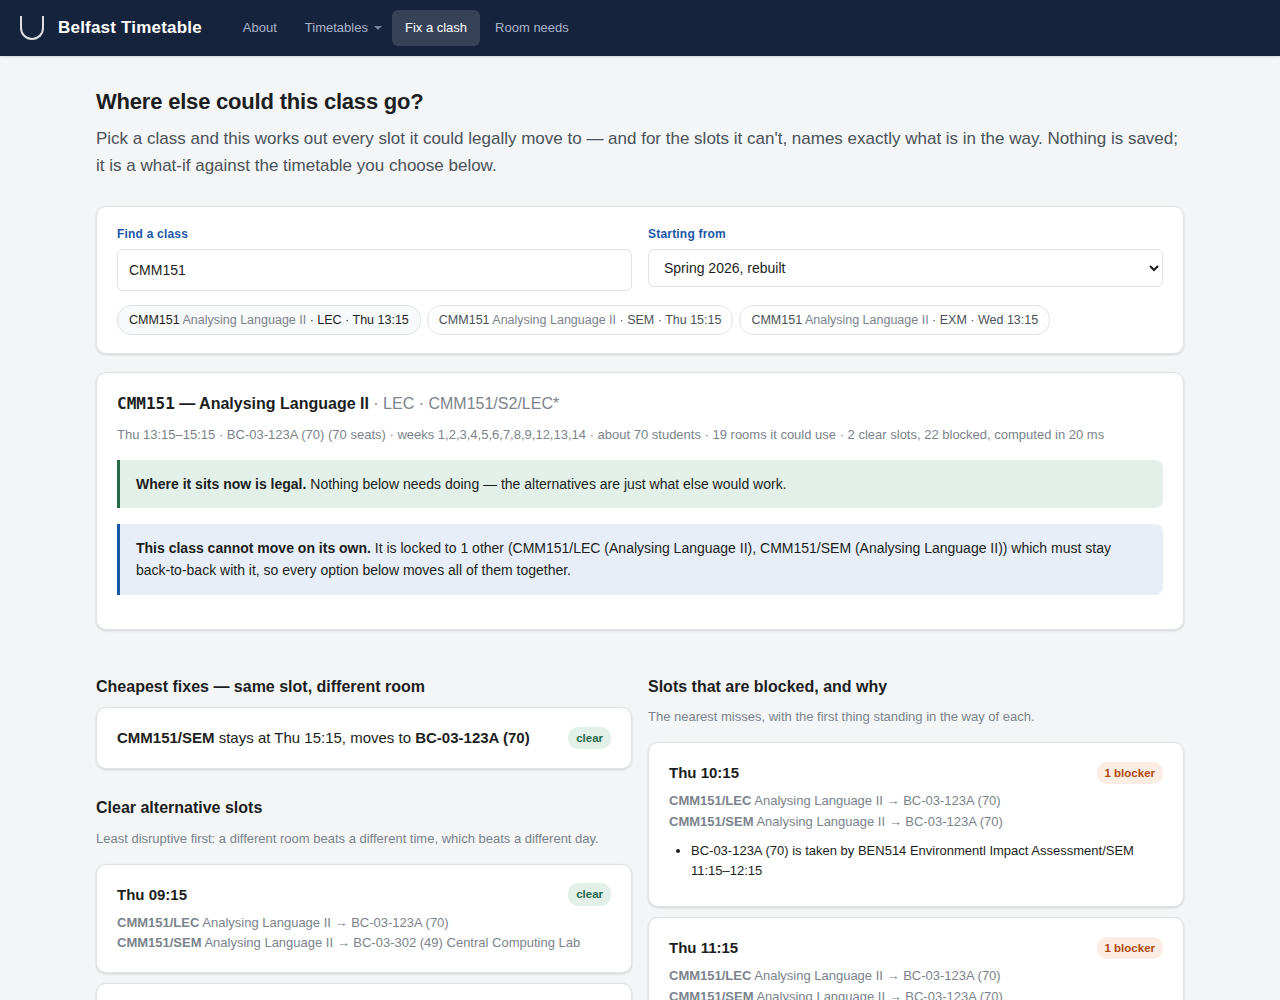
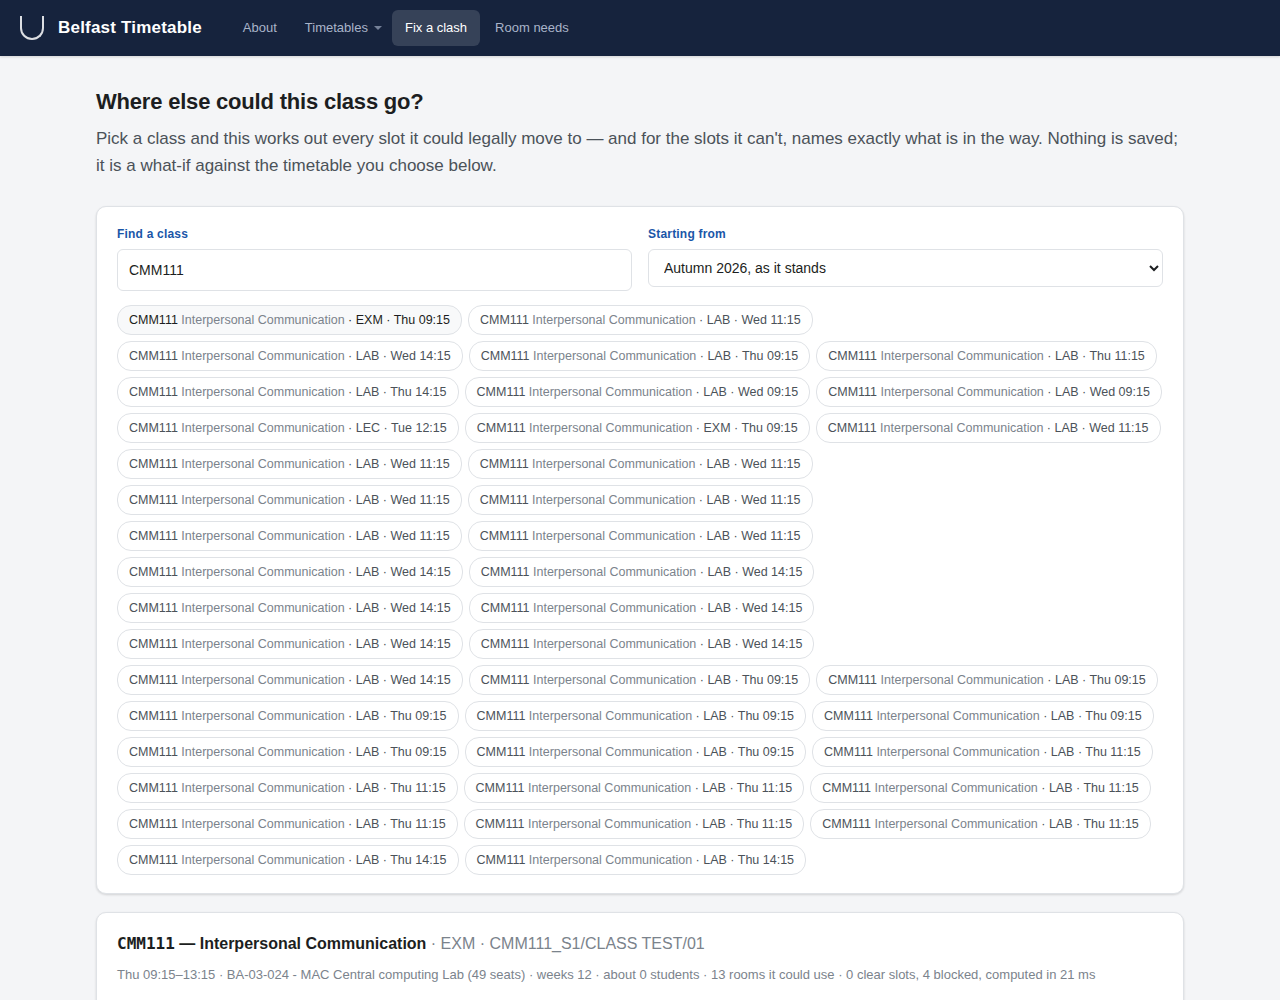
Fix a clash opens on autumn as it stands; a None button for weeks
The what-if still loaded against the rebuilt spring. It now opens on
Autumn 2026 as it stands, and the examples it suggests follow the
timetable being explored — CMM151 and LAW140 are spring modules and
returned nothing against autumn.

Week filter gains None beside All: the way to pick two weeks out of
sixteen without unticking fourteen.

Claude-Session: https://claude.ai/code/session_01MXfb615SCLwARwyeWvxCJ7

Changed region(s): [[0.0625, 0.31, 0.9062, 1.0], [0.5312, 0.248, 0.6562, 0.279], [0.8438, 0.93, 0.9062, 0.961]]

diff --git a/docs/explore.html b/docs/explore.html
@@ -42,15 +42,15 @@
     <div class="grid2">
       <div>
         <label class="fld" for="q">Find a class</label>
-        <input type="search" id="q" placeholder="Module code, title, or room — e.g. CMM151" autocomplete="off">
+        <input type="search" id="q" placeholder="Module code, title, or room — e.g. CMM111" autocomplete="off">
       </div>
       <div>
         <label class="fld" for="which">Starting from</label>
         <select id="which">
-          <option value="autumn">Autumn 2026, as it stands</option>
+          <option value="autumn" selected>Autumn 2026, as it stands</option>
           <option value="springNow">Spring 2026, as it stands</option>
           <option value="autumnNew">Autumn 2026, rebuilt</option>
-          <option value="springNew" selected>Spring 2026, rebuilt</option>
+          <option value="springNew">Spring 2026, rebuilt</option>
         </select>
       </div>
     </div>
@@ -83,8 +83,8 @@
   </div>
 
   <div id="hint" class="note">
-    <p style="margin:0">Type a module code above to begin — try <strong>CMM151</strong>,
-    <strong>LAW140</strong>, or a room like <strong>BC-03-123</strong>.</p>
+    <p style="margin:0">Type a module code above to begin — try <strong>CMM111</strong>,
+    <strong>CMM350</strong>, or a room like <strong>BC-03-123</strong>.</p>
   </div>
 
 </main>
@@ -129,12 +129,16 @@
   // Which timetable the what-if runs against. Autumn's model lives in its own
   // file and is fetched the first time it is asked for.
   var TERMS = {
-    autumn:    { file: 'data/autumn.json', solved: false, label: 'Autumn 2026, as it stands' },
-    autumnNew: { file: 'data/autumn.json', solved: true,  label: 'Autumn 2026, rebuilt' },
-    springNow: { file: null,               solved: false, label: 'Spring 2026, as it stands' },
-    springNew: { file: null,               solved: true,  label: 'Spring 2026, rebuilt' },
+    autumn:    { file: 'data/autumn.json', solved: false, label: 'Autumn 2026, as it stands',
+                 eg: ['CMM111', 'CMM350'] },
+    autumnNew: { file: 'data/autumn.json', solved: true,  label: 'Autumn 2026, rebuilt',
+                 eg: ['CMM111', 'CMM350'] },
+    springNow: { file: null,               solved: false, label: 'Spring 2026, as it stands',
+                 eg: ['CMM151', 'LAW140'] },
+    springNew: { file: null,               solved: true,  label: 'Spring 2026, rebuilt',
+                 eg: ['CMM151', 'LAW140'] },
   };
-  var H = null, which = 'springNew', term = null, selected = null;
+  var H = null, which = 'autumn', term = null, selected = null;
 
   function esc(s) {
     return String(s).replace(/[&<>"]/g, function (ch) {
@@ -290,8 +294,15 @@
     document.getElementById('panel').hidden = true;
     var q = document.getElementById('q');
     var spec = TERMS[key];
+    // The examples have to exist in the timetable being explored, or the
+    // first thing the page suggests returns nothing.
+    var examples = '<p style="margin:0">Type a module code above to begin \u2014 try <strong>' +
+      spec.eg[0] + '</strong>, <strong>' + spec.eg[1] +
+      '</strong>, or a room like <strong>BC-03-123</strong>.</p>';
     if (!spec.file) {
       term = null;
+      hint.className = 'note';
+      hint.innerHTML = examples;
       search(q.value);
       return;
     }
@@ -299,7 +310,8 @@
     M.loadModel(spec.file, H).then(function (built) {
       if (which !== key) return;        // the reader moved on while it loaded
       term = built;
-      hint.textContent = '';
+      hint.className = 'note';
+      hint.innerHTML = examples;
       search(q.value);
     }).catch(function (e) {
       hint.className = 'note warn';

diff --git a/docs/index.html b/docs/index.html
@@ -49,6 +49,7 @@
       <span class="small muted" style="font-weight:600">Week</span>
       <div class="chips" id="f-weeks"></div>
       <button id="f-weeks-all" class="chip" style="border-style:dashed">All</button>
+      <button id="f-weeks-none" class="chip" style="border-style:dashed">None</button>
     </div>
     <div class="row" style="margin-top:12px">
       <span class="small muted" style="font-weight:600">Day</span>
@@ -867,6 +868,14 @@
       state.weeks = null;
       document.querySelectorAll('#f-weeks .chip').forEach(function (b) {
         b.setAttribute('aria-pressed', 'true');
+      });
+      render(); refreshAll();
+    };
+    // The way to pick two weeks out of sixteen without unticking fourteen.
+    document.getElementById('f-weeks-none').onclick = function () {
+      state.weeks = 0;
+      document.querySelectorAll('#f-weeks .chip').forEach(function (b) {
+        b.setAttribute('aria-pressed', 'false');
       });
       render(); refreshAll();
     };
